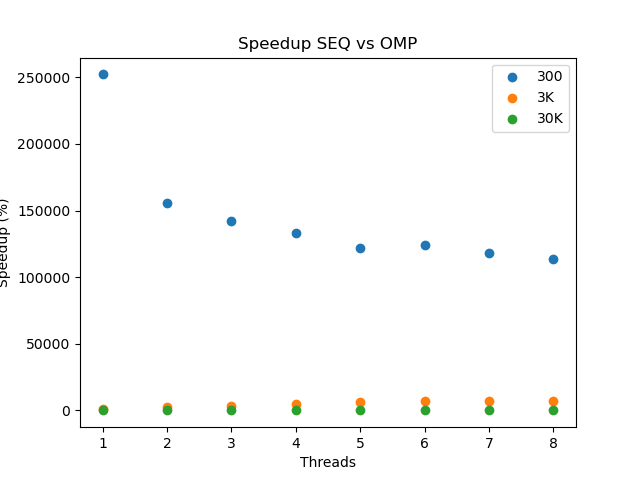
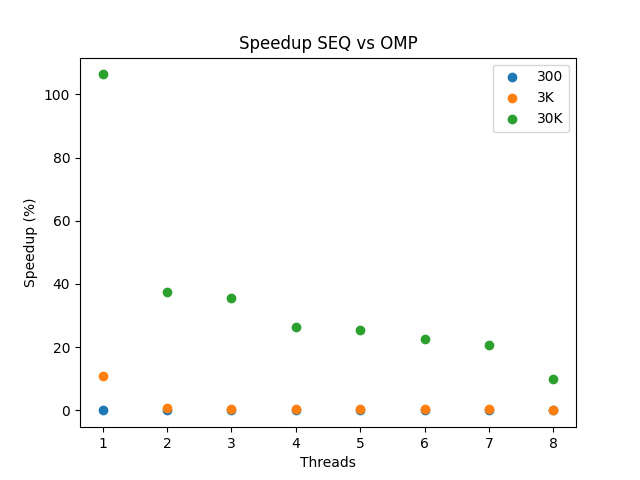
fixed

diff --git a/labs/8/Lab8/collect_data.py b/labs/8/Lab8/collect_data.py
@@ -90,11 +90,24 @@ def collect_seq_data(program, sizes):
 
 
 # index represents the index of sizes array
-def calculate_speedup(baseline_mean, test_times):
+def calculate_speedup(baseline_mean, test_times, sizes):
     speedup_list = []
     # datum = (threads, problem_size, mean_time)
+    print(baseline_mean, sizes)
+    #h = [i for i in baseline_mean if i[1] == sizes[0]]
+    #h = sum(h) / len(h)
+    #t = [i for i in baseline_mean if i[1] == sizes[1]]
+    #t = sum(t) / len(t)
+    #tt = [i for i in baseline_mean if i[1] == sizes[2]]
+    #tt = sum(tt) / len(tt)
+    #print("h", h)
     for datum in test_times:
-        speedup = baseline_mean / datum[2] * 100
+        if datum[1] == sizes[0]:
+            speedup = baseline_mean[0] / datum[2] * 100
+        elif datum[1] == sizes[1]:
+            speedup = baseline_mean[1] / datum[2] * 100
+        elif datum[1] == sizes[2]:
+            speedup = baseline_mean[2] / datum[2] * 100
         speedup_list.append((datum[0], datum[1], speedup))
     return speedup_list
 
@@ -102,10 +115,9 @@ def calculate_speedup(baseline_mean, test_times):
 sizes = [300, 3000, 30000]
 
 seq_results = collect_seq_data(seq, sizes)
-baseline_mean = sum(seq_results)/len(seq_results)
 
 omp_results = collect_data(omp, sizes)
-omp_speedups = calculate_speedup(baseline_mean, omp_results)
+omp_speedups = calculate_speedup(seq_results, omp_results, sizes)
 
 
 print(omp_speedups[0])
